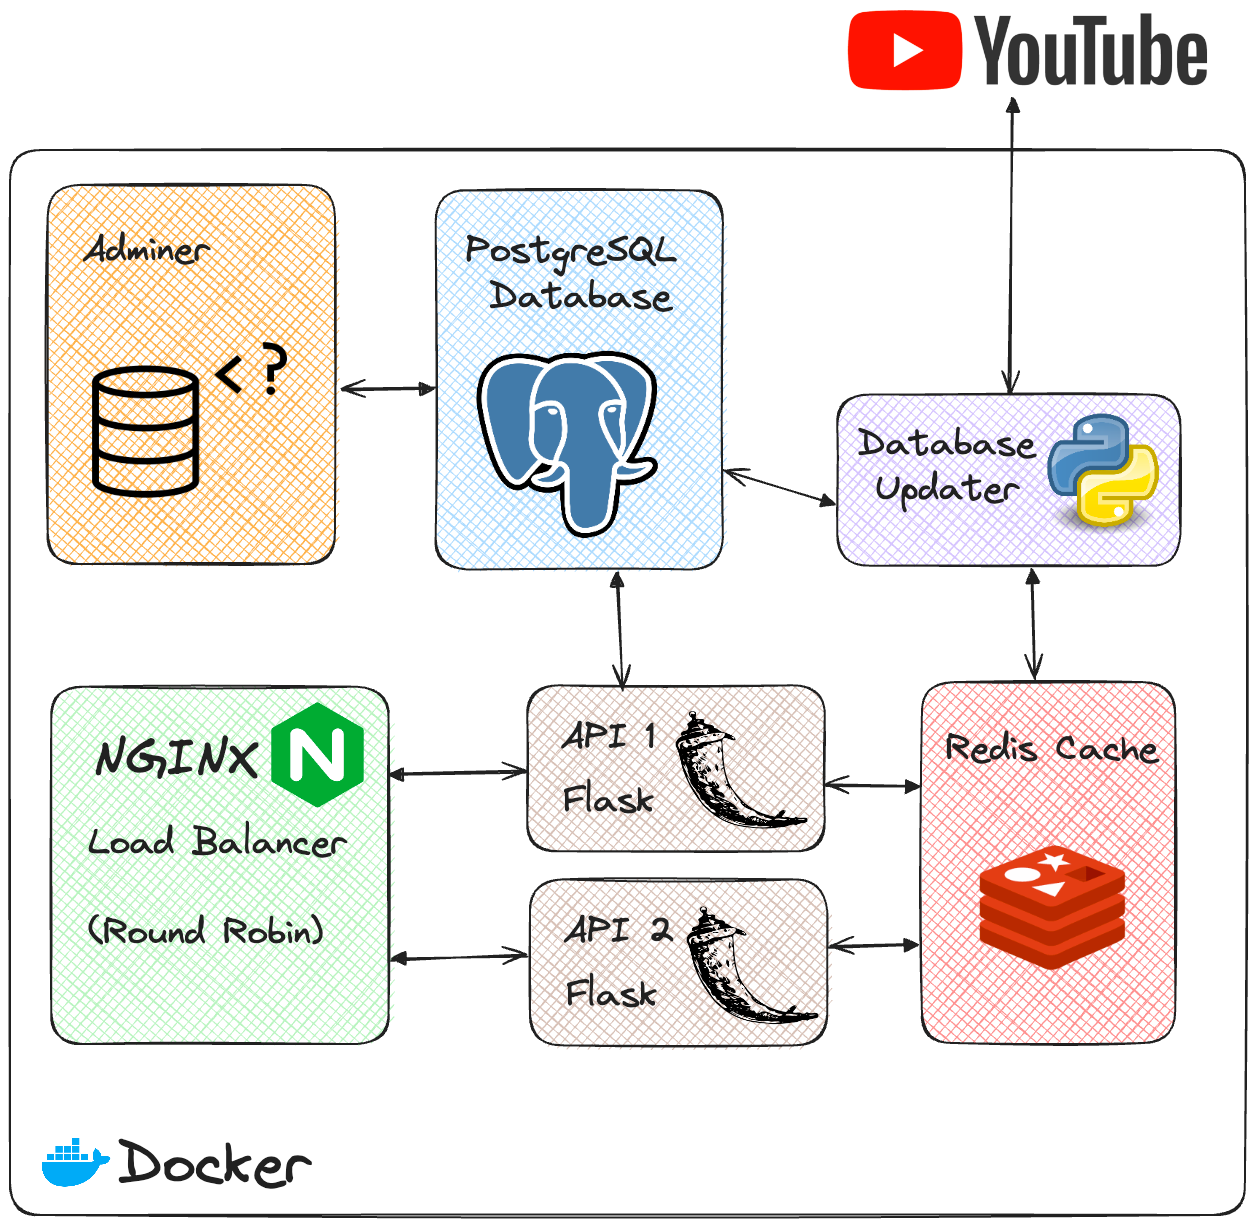
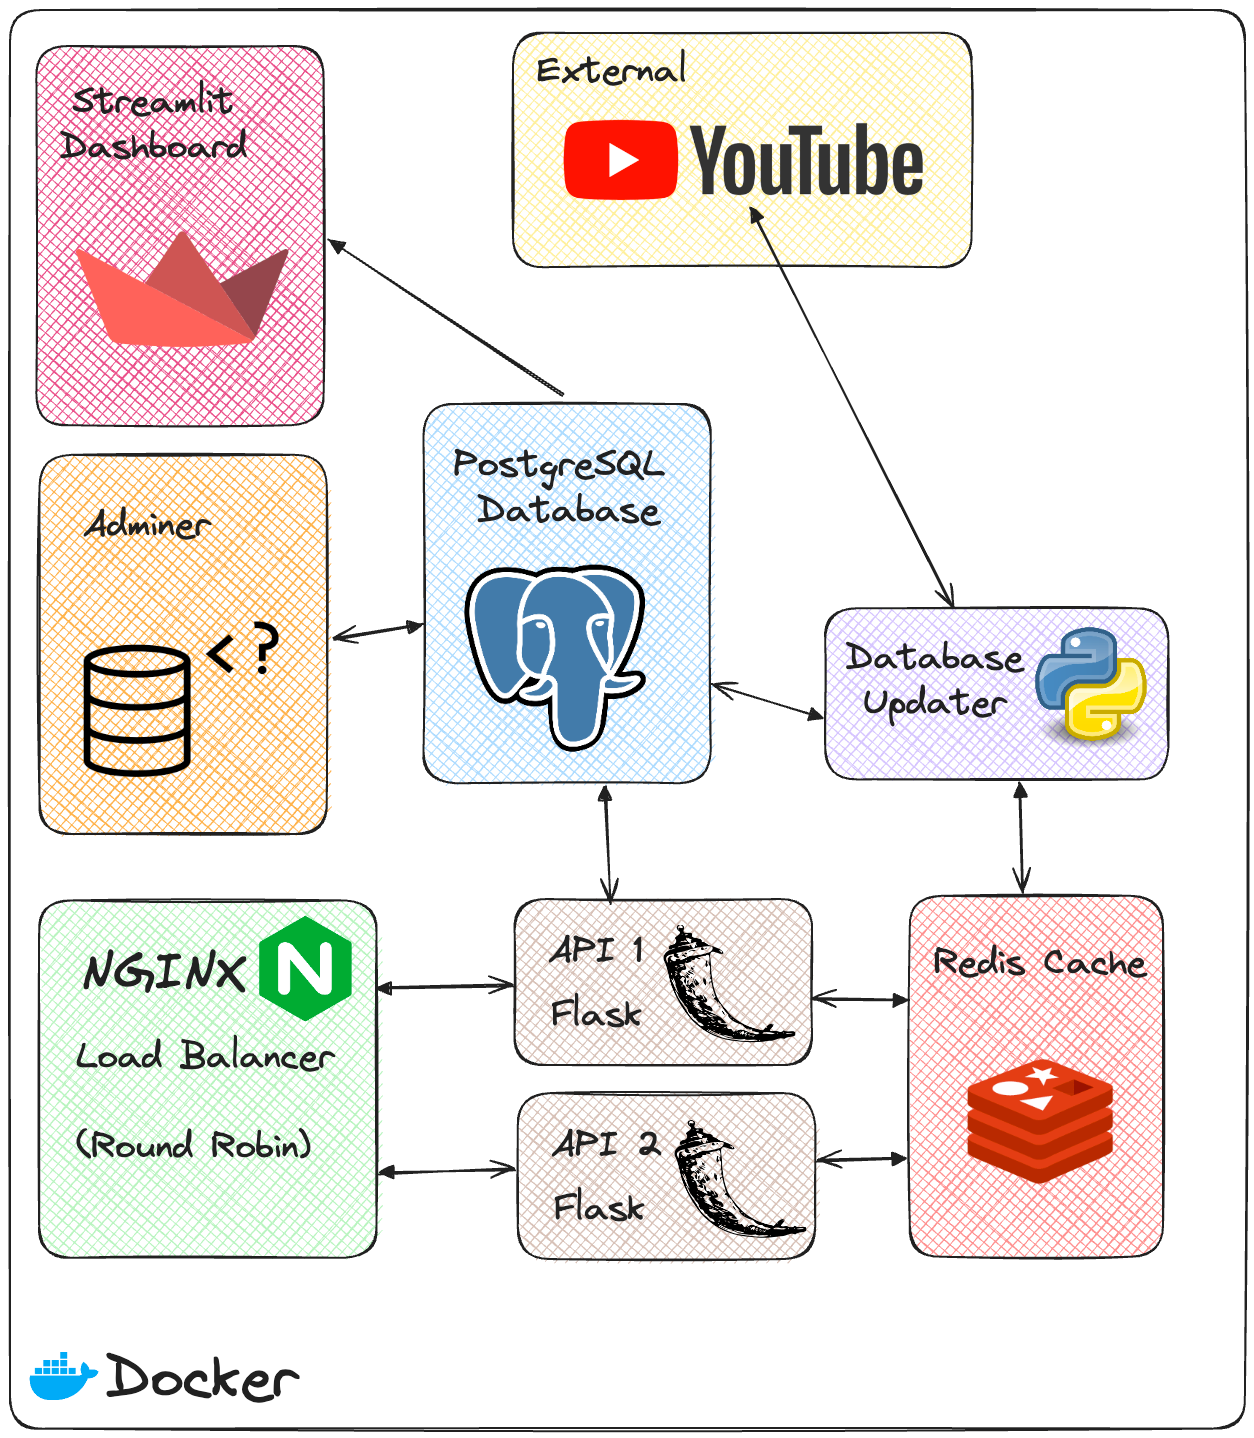
Update Documentation

diff --git a/README.md b/README.md
@@ -5,19 +5,31 @@
 2. Create Youtube API Keys and replace the `<key1>` and `<key2>` placeholders. Feel free to add more if you like. [Here](https://scribehow.com/shared/Get_API_key_for_Fampay_Assignment__yJsvVKDUT4SFxx3DJ4Yh9Q) is a tutorial to create an API Key.
 2. Unless you want to change ports and other settings, you should be good to go!
 
-## Running Services
-You can spin up all the services using docker compose using the following command.
+## Starting / Stopping
+You can spin up/down all the services using docker compose using the following command.
 
 ```bash
-docker-compose up -d
-```
+# Start All Services
+docker compose up -d
 
-## Stopping Services
-```bash
+# Stop All Services
 docker compose down
 ```
 
+## Accessing Services
+### Dashboard
+<img src="docs/streamlit.png">
+
+**URL ->** [http://localhost:8501](http://localhost:8501)
+
+### Adminer
+<img src="docs/adminer.png">
+
+**URL ->** [http://localhost:5000](http://localhost:5000)
+
 ## API Documentation
+<img src="docs/api.png">
+
 **Base URL:** `http://localhost:8080`
 
 ### GET /videos
